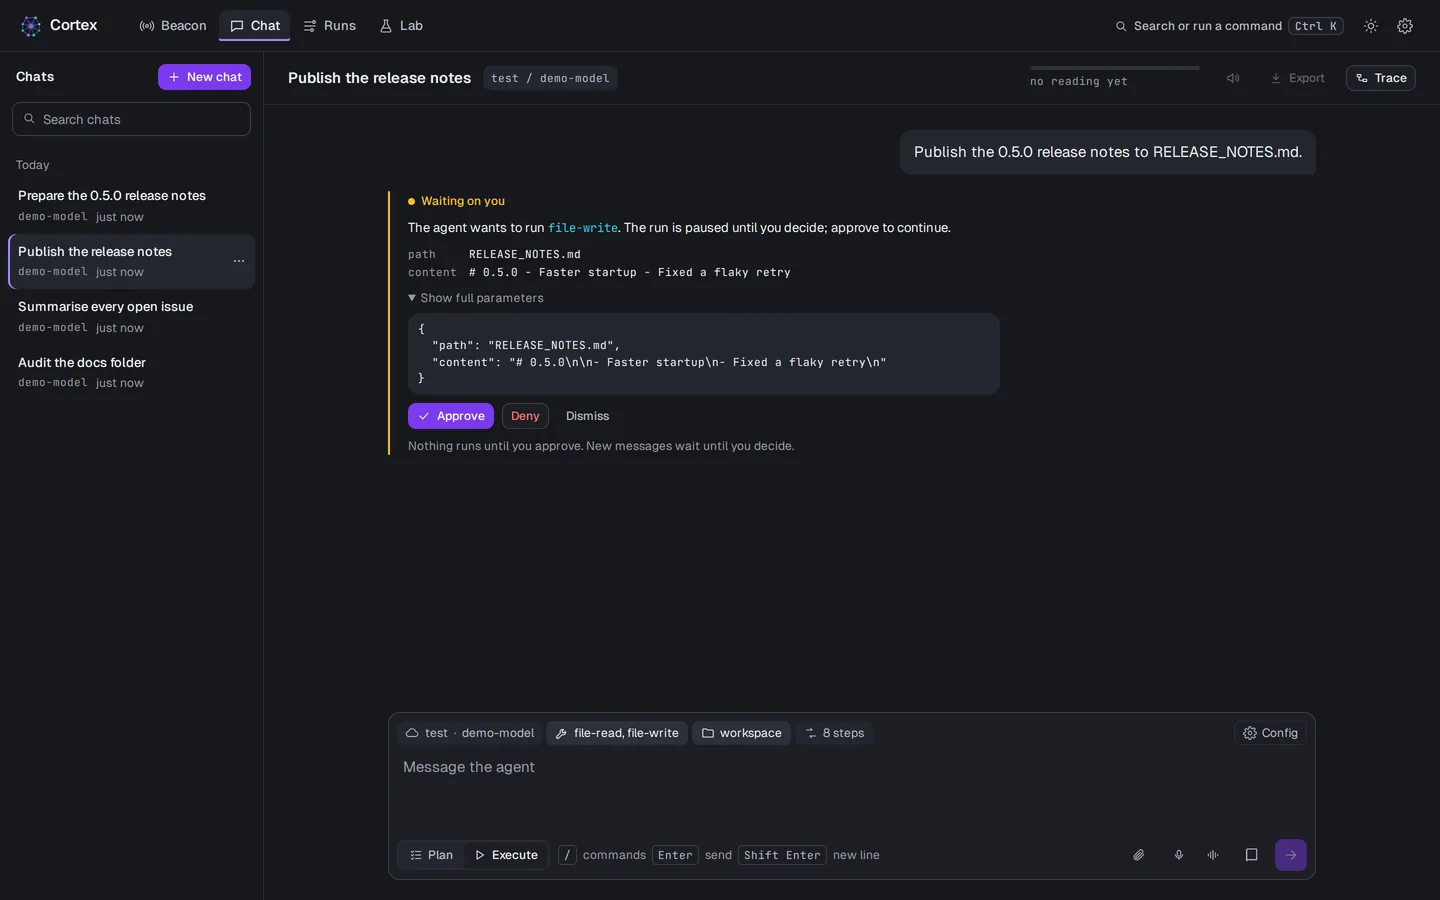
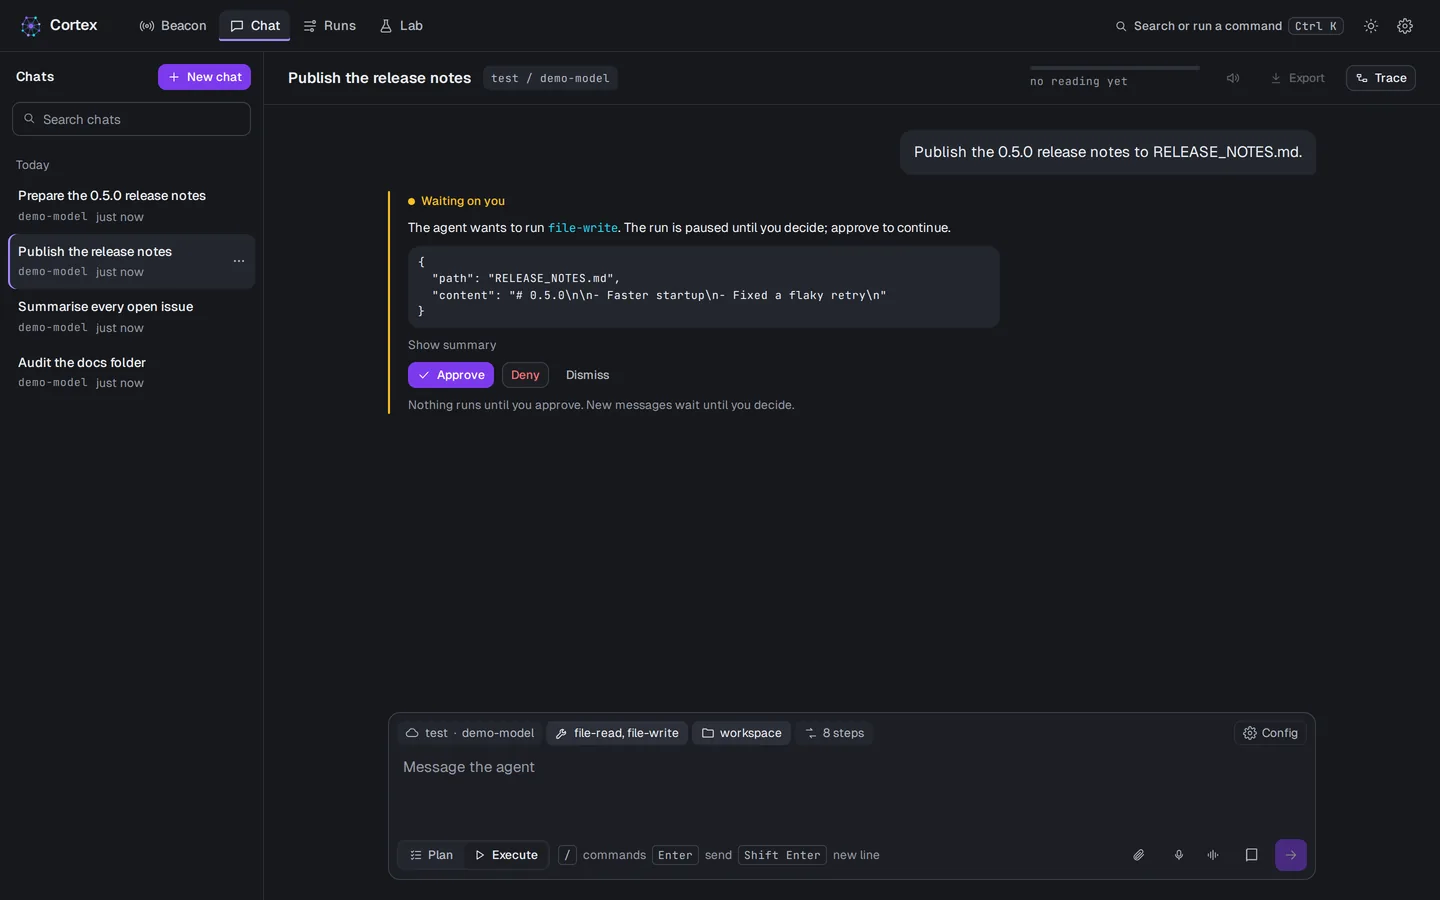
feat(cortex): recapture docs screenshots with readable crops and a seeded calibration shot
Regenerates all shots from current dev (one card per stop, approval params
shown once, plain step-limit wording), adds <id>--crop variants with crop
boxes in the manifest for legible gallery use, captures the model page with
synthetic learned calibration written into the demo HOME, fixes two
nondeterminism sources (speed readouts, sidebar order) so three full runs are
byte-identical, and adds playwright-core 1.61.1 as an apps/cortex devDependency.

Changed region(s): [[0.2812, 0.3733, 0.5312, 0.4978], [0.2812, 0.28, 0.625, 0.3422], [0.5625, 0.3733, 0.5938, 0.4044]]

diff --git a/apps/cortex/scripts/docs-screenshots/shots.ts b/apps/cortex/scripts/docs-screenshots/shots.ts
@@ -35,6 +35,16 @@ export interface ShotContext {
   runId(): string;
 }
 
+/** A readability crop: a box in CSS px at 1x of the full capture, about 960x600, around the part that carries the story. */
+export interface CropBox {
+  readonly x: number;
+  readonly y: number;
+  readonly width: number;
+  readonly height: number;
+  /** One sentence for the manifest: what the crop shows (starts with a capital, ends with a period). */
+  readonly shows: string;
+}
+
 export interface Shot {
   readonly id: string;
   /** `stable`: UI is final, captured by default. `pending`: UI still moving; only with `--only` or `--include-pending`. */
@@ -54,6 +64,8 @@ export interface Shot {
    * (a speed shown once a timer resolved), which would change the layout between runs.
    */
   readonly hideText?: RegExp;
+  /** Also write `<id>--crop.webp`, a legible crop for small displays (the gallery). */
+  readonly crop?: CropBox;
   /** Written to the manifest: how the shot was made, when that is not obvious. */
   readonly note?: string;
   capture(ctx: ShotContext): Promise<void>;
@@ -78,6 +90,7 @@ export const SHOTS: readonly Shot[] = [
     route: "/chat",
     caption: "Plan mode: the agent proposes a plan, one line per step with the tool it will use. Edit it, then Execute.",
     alt: "Cortex chat in Plan mode showing an editable three-step plan with tool chips for file-read, before it is executed.",
+    crop: { x: 380, y: 225, width: 960, height: 600, shows: "The editable plan card with its three steps, tool chips and the Execute button." },
     async capture({ page, base, sessionId }) {
       await page.goto(`${base}/chat?session=${sessionId("Prepare the 0.5.0 release notes")}`);
       await page.getByText("Reasoning only: nothing has run").waitFor();
@@ -110,6 +123,7 @@ export const SHOTS: readonly Shot[] = [
     route: "/chat",
     caption: "A durable run you stopped keeps its place. Continue resumes the same run without repeating finished work.",
     alt: "Cortex chat showing 'Stopped by you' with the tool already done, an optional note for the agent, and a Continue button.",
+    crop: { x: 380, y: 190, width: 960, height: 600, shows: "The Stopped by you card with the finished tool, the note field and the Continue button." },
     async capture({ page, base, sessionId }) {
       await page.goto(`${base}/chat?session=${sessionId("Audit the docs folder")}`);
       await page.getByRole("button", { name: "Continue" }).waitFor();
@@ -122,6 +136,7 @@ export const SHOTS: readonly Shot[] = [
     route: "/lab#tools",
     caption: "Tools Lab: MCP servers with live connection status and each tool's input schema.",
     alt: "Cortex Tools Lab listing three MCP servers: two connected with their tools, one failed with its error.",
+    crop: { x: 24, y: 180, width: 860, height: 420, shows: "The server list with each server's connection status, and the connected docs server's tools." },
     async capture({ page, base }) {
       await page.goto(`${base}/lab#tools`);
       await openDocsServer(page);
@@ -149,6 +164,7 @@ export const SHOTS: readonly Shot[] = [
     height: 1500,
     caption: "Channels hub: Telegram, Signal and webhook channels, the agent each one routes to, and who may talk to it.",
     alt: "Cortex channels hub with three channels, their routes to a saved agent, and access settings.",
+    crop: { x: 20, y: 335, width: 960, height: 600, shows: "The channel list with its add buttons and the first channel's settings." },
     async capture({ page, base }) {
       await page.goto(`${base}/lab#channels`);
       await page.getByText("Support (Telegram)").first().waitFor({ timeout: 20_000 });
@@ -233,16 +249,18 @@ export const SHOTS: readonly Shot[] = [
   },
   {
     id: "model-calibration",
-    // Pending: the page labels learned values "applied only when learned calibration is on" only when it HAS learned
-    // values, which needs a model with a shipped calibration plus recorded runs in calibration.db. The hermetic home has
-    // neither (and must not borrow the real one), so this shot shows the empty state and does not show that label.
-    status: "pending",
-    route: "/models/anthropic/claude-sonnet-4-6",
+    // The page labels learned values "applied only when learned calibration is on" only when it HAS learned values.
+    // seed.ts writes synthetic observations and a calibration.db row for qwen3:14b (a model with a shipped calibration)
+    // into the demo HOME, so the label shows.
+    status: "stable",
+    route: "/models/ollama/qwen3:14b",
     height: 1500,
-    caption: "A model's page: capabilities, measured speed and spend, and how the harness adapts to it.",
-    alt: "Cortex model page for a Claude model showing capabilities, speed, spend and the Calibration section, with notes on what applies only when learned calibration is on.",
+    caption: "A model's page: capabilities, measured speed and spend, and how the harness adapts to it. Learned values are marked as applied only when learned calibration is on.",
+    alt: "Cortex model page for qwen3:14b showing capabilities and the Calibration section, where values learned from recorded runs are labelled as applied only when learned calibration is on, next to the shipped values.",
+    crop: { x: 240, y: 850, width: 960, height: 600, shows: "The Calibration section, each setting marked Shipped or Learned, with the note that learned values apply only when learned calibration is on." },
+    note: "Synthetic calibration data seeded into the demo home: a shipped calibration plus 8 recorded run observations (seed.ts).",
     async capture({ page, base }) {
-      await page.goto(`${base}/models/anthropic/claude-sonnet-4-6`);
+      await page.goto(`${base}/models/ollama/${encodeURIComponent("qwen3:14b")}`);
       await page.getByText("How the harness adapts to this model").waitFor();
       await settle(page);
     },
@@ -278,6 +296,7 @@ export const SHOTS: readonly Shot[] = [
     route: "/run/:runId",
     caption: "The run view's Why it ended card: the cause, who is at fault, what to try, and the steps that decided it.",
     alt: "Cortex run view for a run that hit its iteration limit, with the Why it ended card open: cause, what to try, decisive steps, and the trace below.",
+    crop: { x: 16, y: 360, width: 984, height: 540, shows: "The Why it ended card: the cause, what to try and the decisive steps." },
     note: "Diagnosis is the framework's (same engine as rax-diagnose cause) on a scripted run that was cut at its step limit. The per-loop speed readout (tok/s, first-token time) appears only when timing resolved, so it is hidden in the trace rows to keep the layout identical between runs.",
     hideText: /tok\/s · TTFT/,
     async capture({ page, base, runId }) {
@@ -285,6 +304,18 @@ export const SHOTS: readonly Shot[] = [
       await page.getByText("Why it ended").waitFor({ timeout: 20_000 });
       await page.getByText("Decisive steps").waitFor();
       await settle(page);
+      // The header's Speed tile exists only when timing resolved: hide the whole tile (label and value) so the header
+      // lays out the same on every run. Masks and hideText run after capture, so this is done here.
+      // A MutationObserver keeps it hidden if the tile renders after this point.
+      await page.evaluate(() => {
+        const hide = (): void => {
+          for (const el of Array.from(document.querySelectorAll("*"))) {
+            if (el.children.length === 0 && el.textContent?.trim() === "Speed" && el.parentElement) el.parentElement.style.setProperty("display", "none");
+          }
+        };
+        hide();
+        new MutationObserver(hide).observe(document.body, { childList: true, subtree: true, characterData: true });
+      });
     },
   },
 ];

diff --git a/apps/cortex/scripts/docs-screenshots/run.ts b/apps/cortex/scripts/docs-screenshots/run.ts
@@ -13,7 +13,7 @@ import { existsSync, mkdirSync, readdirSync, readFileSync, rmSync, writeFileSync
 import { homedir, tmpdir } from "node:os";
 import { join, resolve } from "node:path";
 import sharp from "sharp";
-import { MASKS, SHOTS, VIEWPORT, type Shot, type ShotContext } from "./shots.js";
+import { MASKS, SHOTS, VIEWPORT, type CropBox, type Shot, type ShotContext } from "./shots.js";
 
 const here = new URL(".", import.meta.url).pathname;
 const cortexRoot = resolve(here, "../..");
@@ -97,7 +97,7 @@ if (selected.length === 0) {
   process.exit(2);
 }
 
-type Result = { shot: Shot; png: Buffer; file: string; bytes: number };
+type Result = { shot: Shot; png: Buffer; file: string; bytes: number; crop?: CropBox };
 const results: Result[] = [];
 const pw = loadPlaywright();
 const browser = await pw.chromium.launch({ headless: true });
@@ -128,7 +128,8 @@ async function capture(shot: Shot, ctxInfo: Pick<ShotContext, "sessionId" | "run
   }
   await page.evaluate(() => (document.activeElement as HTMLElement | null)?.blur?.());
   // No toasts (they carry run ids), no caret. Dynamic text is replaced with fixed values (shots.ts MASKS).
-  await page.addStyleTag({ content: "*{caret-color:transparent!important}.z-toast{display:none!important}" });
+  // No chat speed readout either (tok/s, TTFT): it exists only when timing resolved, so it differs run to run.
+  await page.addStyleTag({ content: "*{caret-color:transparent!important}.z-toast{display:none!important}[data-testid=turn-speed]{display:none!important}" });
   await page.evaluate((masks) => {
     const rules = masks.map(([src, to]) => [new RegExp(src, "g"), to] as const);
     const fix = (s: string): string => rules.reduce((acc, [re, to]) => acc.replace(re, to), s);
@@ -159,6 +160,16 @@ async function capture(shot: Shot, ctxInfo: Pick<ShotContext, "sessionId" | "run
     .webp({ quality: 82, effort: 6 })
     .toBuffer();
   results.push({ shot, png: webp, file: `${shot.id}.webp`, bytes: webp.length });
+  if (shot.crop) {
+    // Readability crop: cut from the 2x capture (CSS px x 2), output at the crop's CSS width (about 960) so text stays legible.
+    const c = shot.crop;
+    const cropped = await sharp(png)
+      .extract({ left: c.x * 2, top: c.y * 2, width: c.width * 2, height: c.height * 2 })
+      .resize({ width: c.width })
+      .webp({ quality: 82, effort: 6 })
+      .toBuffer();
+    results.push({ shot, png: cropped, file: `${shot.id}--crop.webp`, bytes: cropped.length, crop: c });
+  }
   await ctx.close();
 }
 
@@ -214,7 +225,7 @@ for (const r of results) {
 }
 
 const manifestPath = join(outDir, "manifest.json");
-type Entry = { id: string; file: string | null; status: string; route: string; caption: string; alt: string; width: number; height: number; bytes: number | null; sha256: string | null; note?: string };
+type Entry = { id: string; file: string | null; status: string; route: string; caption: string; alt: string; width: number; height: number; bytes: number | null; sha256: string | null; note?: string; variantOf?: string; crop?: CropBox };
 const prior: Entry[] = existsSync(manifestPath) ? (JSON.parse(readFileSync(manifestPath, "utf8")) as { shots: Entry[] }).shots : [];
 const byId = new Map(prior.map((e) => [e.id, e] as const));
 // Workspace package.json files stay at a baseline version; the repo VERSION file is the real one (what /api/health reports).
@@ -223,7 +234,7 @@ const cortexVersion = existsSync(versionFile)
   ? readFileSync(versionFile, "utf8").trim()
   : (JSON.parse(readFileSync(join(cortexRoot, "package.json"), "utf8")) as { version: string }).version;
 for (const shot of SHOTS) {
-  const r = results.find((x) => x.shot.id === shot.id);
+  const r = results.find((x) => x.shot.id === shot.id && !x.crop);
   const cur = byId.get(shot.id);
   byId.set(shot.id, {
     id: shot.id,
@@ -238,6 +249,26 @@ for (const shot of SHOTS) {
     sha256: r ? createHash("sha256").update(r.png).digest("hex") : cur?.sha256 ?? null,
     ...(shot.note ? { note: shot.note } : {}),
   });
+  if (shot.crop) {
+    const cid = `${shot.id}--crop`;
+    const rc = results.find((x) => x.shot.id === shot.id && x.crop);
+    const curc = byId.get(cid);
+    byId.set(cid, {
+      id: cid,
+      file: rc ? rc.file : curc?.file ?? null,
+      status: shot.status,
+      route: shot.route,
+      caption: `${shot.caption} ${shot.crop.shows}`,
+      alt: `${shot.alt} Cropped to show: ${shot.crop.shows}`,
+      width: shot.crop.width,
+      height: shot.crop.height,
+      bytes: rc ? rc.bytes : curc?.bytes ?? null,
+      sha256: rc ? createHash("sha256").update(rc.png).digest("hex") : curc?.sha256 ?? null,
+      variantOf: shot.id,
+      crop: shot.crop,
+      note: `Readability crop of ${shot.id}: ${shot.crop.width}x${shot.crop.height} CSS px from (${shot.crop.x}, ${shot.crop.y}) of the full capture, for display at 480 to 820 px wide.`,
+    });
+  }
 }
 const manifest = {
   generatedBy: "bun run --cwd apps/cortex screenshots:docs",
@@ -245,7 +276,7 @@ const manifest = {
   capturedOn: new Date().toISOString().slice(0, 10),
   viewport: `${VIEWPORT.width}x${VIEWPORT.height} @2x, downscaled to ${VIEWPORT.width} wide`,
   data: "seeded demo data, scripted `test` provider, no keys, no network, HOME and data dir under a temp folder",
-  shots: SHOTS.map((s) => byId.get(s.id)!),
+  shots: SHOTS.flatMap((s) => [byId.get(s.id)!, ...(s.crop ? [byId.get(`${s.id}--crop`)!] : [])]),
 };
 writeFileSync(manifestPath, `${JSON.stringify(manifest, null, 2)}\n`);
 console.log(`manifest: ${manifestPath}`);

diff --git a/apps/cortex/scripts/docs-screenshots/seed.ts b/apps/cortex/scripts/docs-screenshots/seed.ts
@@ -137,6 +137,54 @@ const out: Record<string, string> = {};
   out["approval"] = id;
 }
 
+// 5. Model page: a model with a SHIPPED calibration (qwen3:14b) plus recorded run observations, so the page shows learned
+// values and the "applied only when learned calibration is on" label. Written through the framework's own writers into
+// the demo HOME (~/.reactive-agents/observations, calibration.db). Synthetic counts, fixed timestamps (deterministic).
+{
+  const { appendObservation, CalibrationStore } = await import("@reactive-agents/reactive-intelligence");
+  const model = "qwen3:14b";
+  // 8 runs: none with parallel tool turns (the shipped prior says "reliable", so this learns "sequential-only"),
+  // every run's classifier-required tool was called (reliability "high").
+  for (let i = 0; i < 8; i++) {
+    appendObservation(model, {
+      at: `2026-11-1${i % 8}T10:00:00.000Z`,
+      parallelTurnCount: 0,
+      totalTurnCount: 4 + (i % 3),
+      dialect: "native-fc",
+      classifierRequired: ["file-read"],
+      classifierActuallyCalled: ["file-read"],
+      subagentInvoked: 0,
+      subagentSucceeded: 0,
+      argValidityRate: 1,
+      noCallStallTurns: 0,
+      unforcedToolWorkTurns: 3,
+      forcedCalls: 0,
+      forcedCallsCalled: 0,
+      forcedCallsSucceeded: 0,
+    });
+  }
+  new CalibrationStore(join(demoDir, ".reactive-agents", "calibration.db")).save({
+    modelId: model,
+    calibrationScores: [0.31, 0.28, 0.35, 0.3, 0.33, 0.29, 0.32, 0.34],
+    sampleCount: 8,
+    highEntropyThreshold: 0.62,
+    convergenceThreshold: 0.21,
+    calibrated: true,
+    lastUpdated: Date.UTC(2026, 10, 17, 10, 0, 0),
+    driftDetected: false,
+  });
+}
+
+// Fixed chat-list order: the list sorts by last_used_at, and the seed's own turns finish in a racy order (a stop or an
+// approval pause lands after the next chat was created), which reordered the sidebar between runs. One second apart.
+{
+  const now = Date.now();
+  const order = ["Publish the release notes", "Summarise every open issue", "Audit the docs folder", "Prepare the 0.5.0 release notes"];
+  order.forEach((name, i) => {
+    rt.rawDb.prepare(`UPDATE cortex_chat_sessions SET last_used_at = ? WHERE name = ?`).run(now - i * 1000, name);
+  });
+}
+
 console.log(JSON.stringify(out, null, 2));
 await svc.disposeAll();
 process.exit(0);

diff --git a/apps/cortex/scripts/docs-screenshots/README.md b/apps/cortex/scripts/docs-screenshots/README.md
@@ -32,6 +32,11 @@ captured; other manifest entries keep their last values.
 4. `run.ts` drives the built UI with Playwright at 1440x900 @2x, dark theme, UTC, a frozen browser clock, then writes
    WebP downscaled to 1440 wide (sharp, quality 82, budget 200 KB).
 
+Readability crops: a shot with `crop: { x, y, width, height, shows }` (CSS px at 1x, about 960x600) also writes
+`<id>--crop.webp`, cut from the 2x capture and shown at the crop's own width, so text stays legible when a page shows it at
+480 to 820 px wide (the home and README galleries). The manifest gets a `<id>--crop` entry with the shot's alt and caption plus
+`shows`, `variantOf` and the crop box. Full shots stay. Each file is held to 200 KB.
+
 Seeded chat states (`seed.ts`): a plan-mode chat (run for real by the Execute shot), a durable run the person stopped
 (a real Stop through the chat control), a run that spent its step budget (real, the framework's own stop), and a
 durable turn paused on a `file-write` approval.
@@ -39,9 +44,9 @@ durable turn paused on a `file-write` approval.
 ## Prerequisites
 
 - A built UI (`build:ui`).
-- `playwright-core` and a Chromium. The script uses the repo's `playwright-core` if installed, else the copy in the bun
-  cache (`~/.bun/install/cache/playwright-core`). Browsers come from `~/.cache/ms-playwright`
-  (`bunx playwright-core install chromium` if missing). Nothing is downloaded by the script.
+- `playwright-core` (a devDependency of `apps/cortex`, pinned to 1.61.1; `bun install` provides it, no browser is
+  downloaded) and a Chromium from `~/.cache/ms-playwright` (`bunx playwright-core install chromium` if missing). The bun
+  cache copy is only a fallback when the package is not installed. Nothing is downloaded by the script.
 - `sharp` (already in the repo's `node_modules`).
 
 ## Determinism rules
@@ -50,6 +55,9 @@ durable turn paused on a `file-write` approval.
 - Reduced motion on and animations disabled, except a shot with `motion: "full"`: its capture freezes every CSS animation
   at a fixed time (`freezeAnimations`, the Beacon uses 2.0 s). JS-driven motion would not be frozen: `--compare` catches it.
 - Browser clock frozen after the seed, so relative times read "just now".
+- The chat list order is pinned at the end of `seed.ts` (`last_used_at`, one second apart): the seed's own turns finish in a
+  racy order, which reordered the sidebar between runs. The chat speed readout (`data-testid="turn-speed"`) and the run view's
+  Speed tile exist only when timing resolved, so both are hidden.
 - Text that varies between runs (random ids, pids, secret tails, measured ms, event numbers) is replaced with fixed
   text by `MASKS` in `shots.ts`; a readout that exists only some of the time is hidden with a shot's `hideText`.
   If `--compare` reports a changed image, find the region (`magick compare ... -threshold`), add a rule, run again.
@@ -81,8 +89,10 @@ Rebuild the UI, run `screenshots:docs`, read every image back (no keys, tokens, 
 - `chat-plan-executed` runs the plan with Plan-execute-reflect: with the scripted provider, Auto ran as a plain Execute turn
   and Blueprint returned no per-step results. The plan card does not stay in the thread after the run in this flow; the shot
   shows the reply and the to-do list ticked off.
-- `model-calibration` is pending: the label "applied only when learned calibration is on" shows only for a model that has learned
-  values, which needs a shipped-calibration model plus recorded runs in `calibration.db`. The hermetic home has none.
+- `model-calibration` shows `ollama/qwen3:14b`, a model with a shipped calibration. `seed.ts` writes 8 synthetic run observations
+  (`appendObservation`) and one `calibration.db` row (`CalibrationStore.save`) into the demo home, never the real
+  `~/.reactive-agents`, so three settings read "Learned" and the page shows "applied only when learned calibration is on".
+  The values are made up to show the label; they say nothing about the model.
 - The run-cause diagnosis on a step-budget stop reads "At fault: Harness: tool call dropped" (the call the cap cut off). That is the
   framework's own answer, not a script artifact, but check the wording before using the image beside a claim.
 - Dark theme only.
